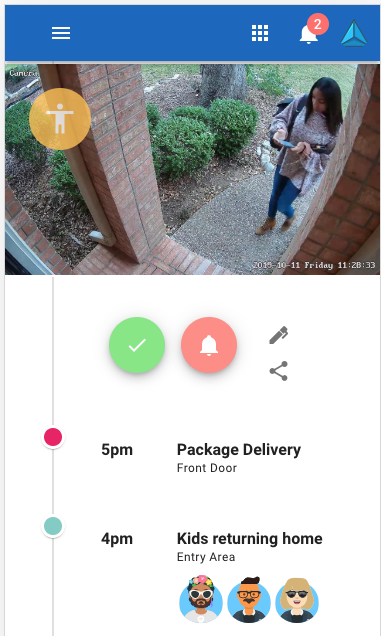
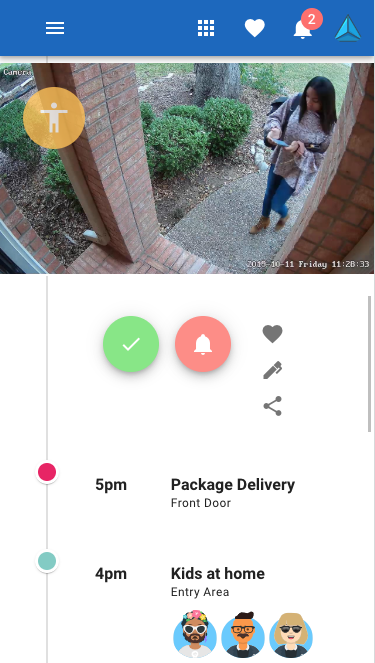
fix: mobile screenshot

diff --git a/src/views/Timeline.vue b/src/views/Timeline.vue
@@ -116,27 +116,6 @@
                 </v-col>
               </v-row>
             </v-timeline-item>
-            <v-timeline-item
-                hide-dot
-            >
-                About this detection...
-                <span>{{ sample.file }}</span>
-                <span>{{ sample.id }}</span>
-                <span>{{ sample.datetime }}</span>
-                <span>
-                  <ul
-                    v-for="(inf, index) in sample.inference_result"
-                    v-bind:key="index"
-                    :data-num="index + 1"
-                  >
-                    <li>
-                      <p>Category: {{inf.category}}</p>
-                      <p>Confidence: {{inf.confidence}}</p>
-                      <p>Box: {{inf.box}}</p>
-                    </li>
-                  </ul>
-                </span>
-              </v-timeline-item>
               <v-timeline-item
                          color="pink"
                          small
